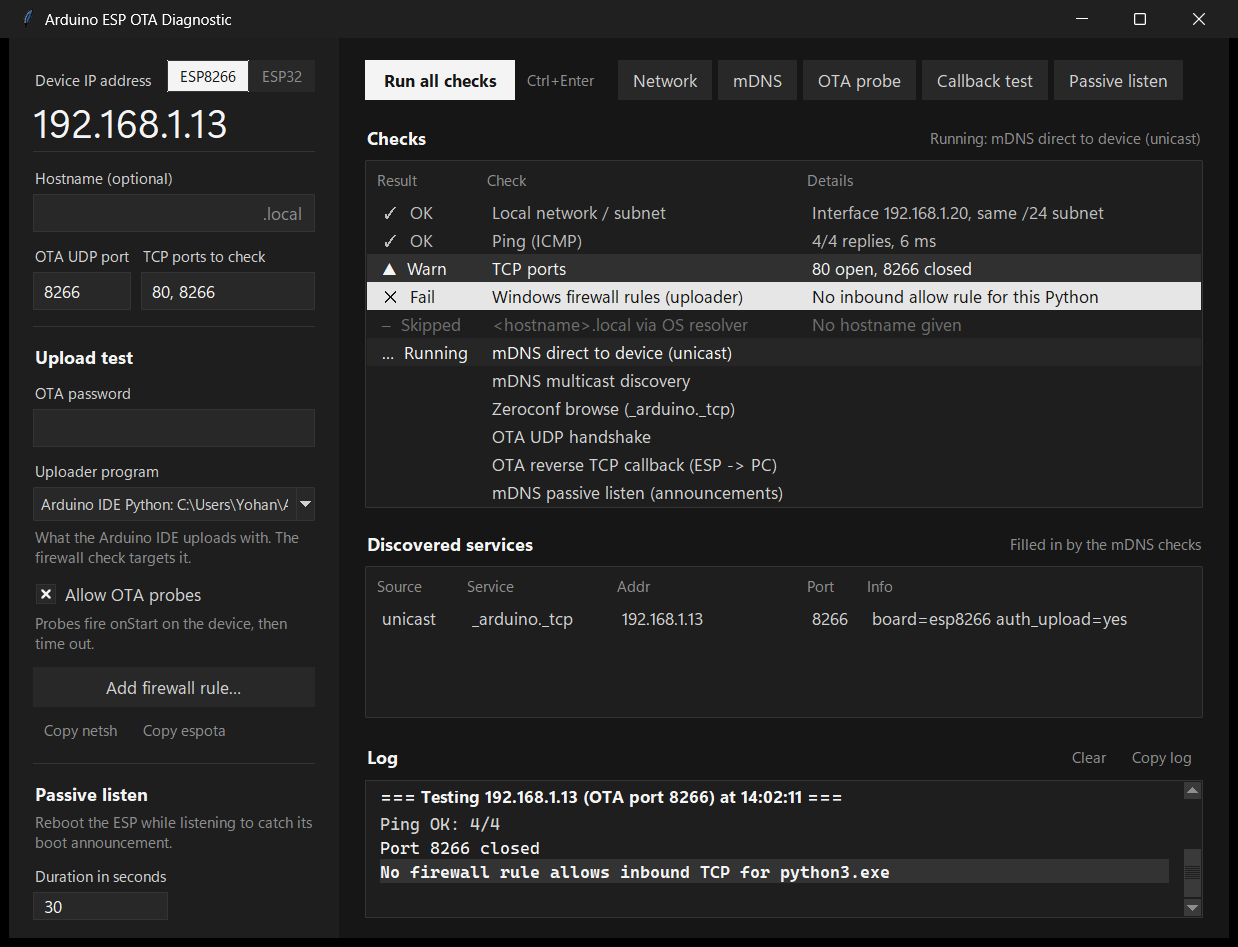
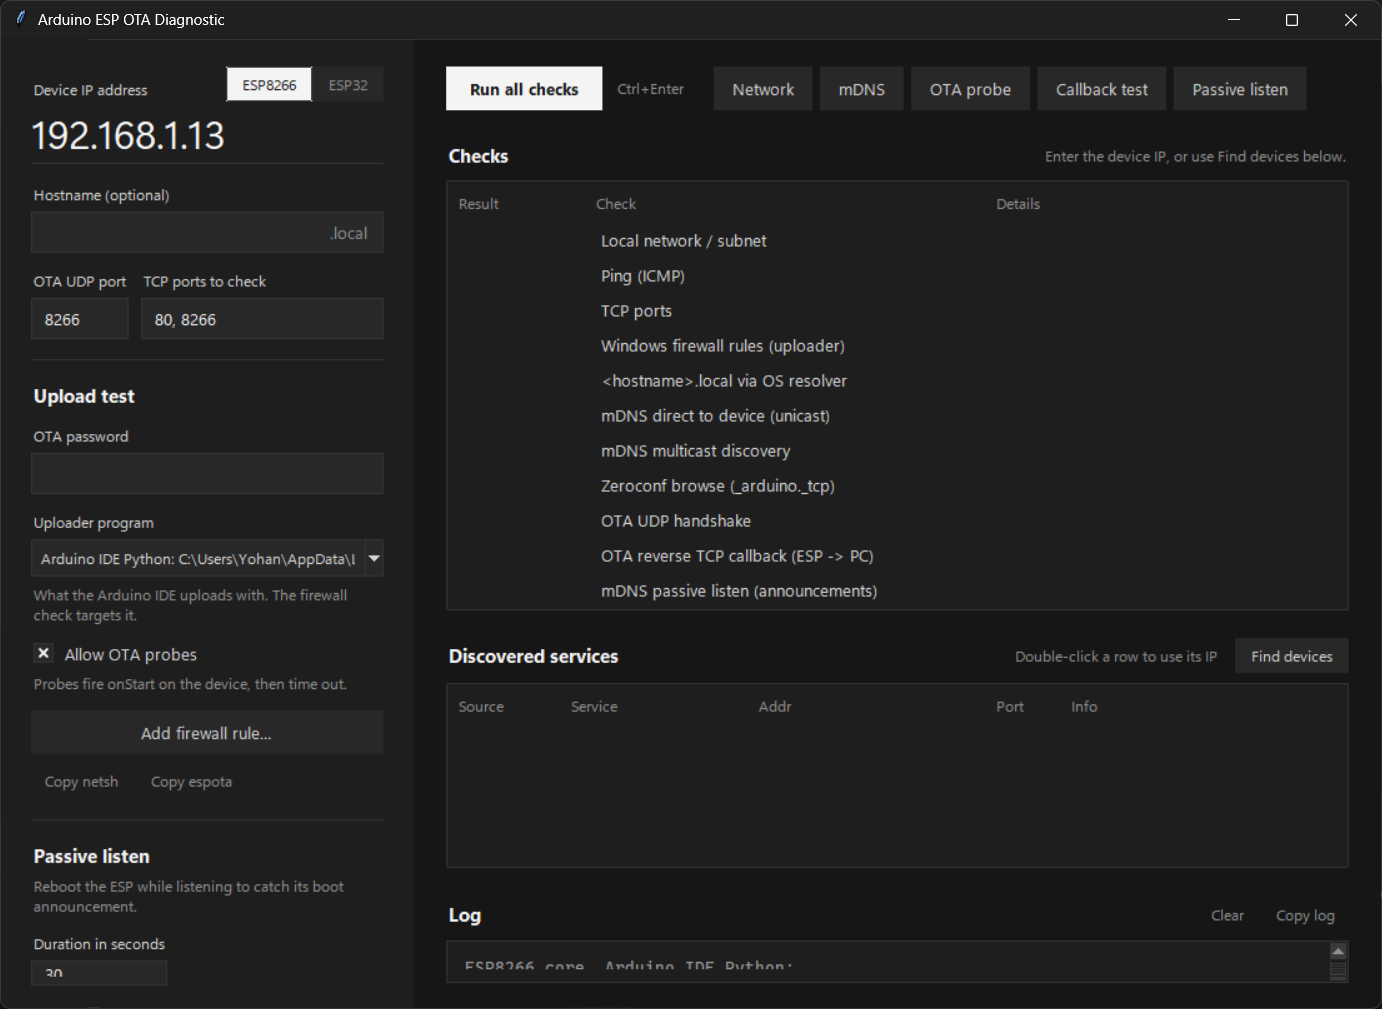
image update

diff --git a/README.md b/README.md
@@ -4,7 +4,7 @@ A desktop tool that finds out why an ESP8266 or ESP32 doesn't show up as a netwo
 
 It walks the whole path an OTA upload takes, from basic reachability through mDNS discovery to the device connecting back to your PC, and tells you which step breaks and what to do about it.
 
-![The diagnostic window with a failed firewall check](docs/screenshot.png)
+![The diagnostic window, ready to run, with the Find devices button above the Discovered services table](docs/screenshot.png)
 
 ## Requirements
 
